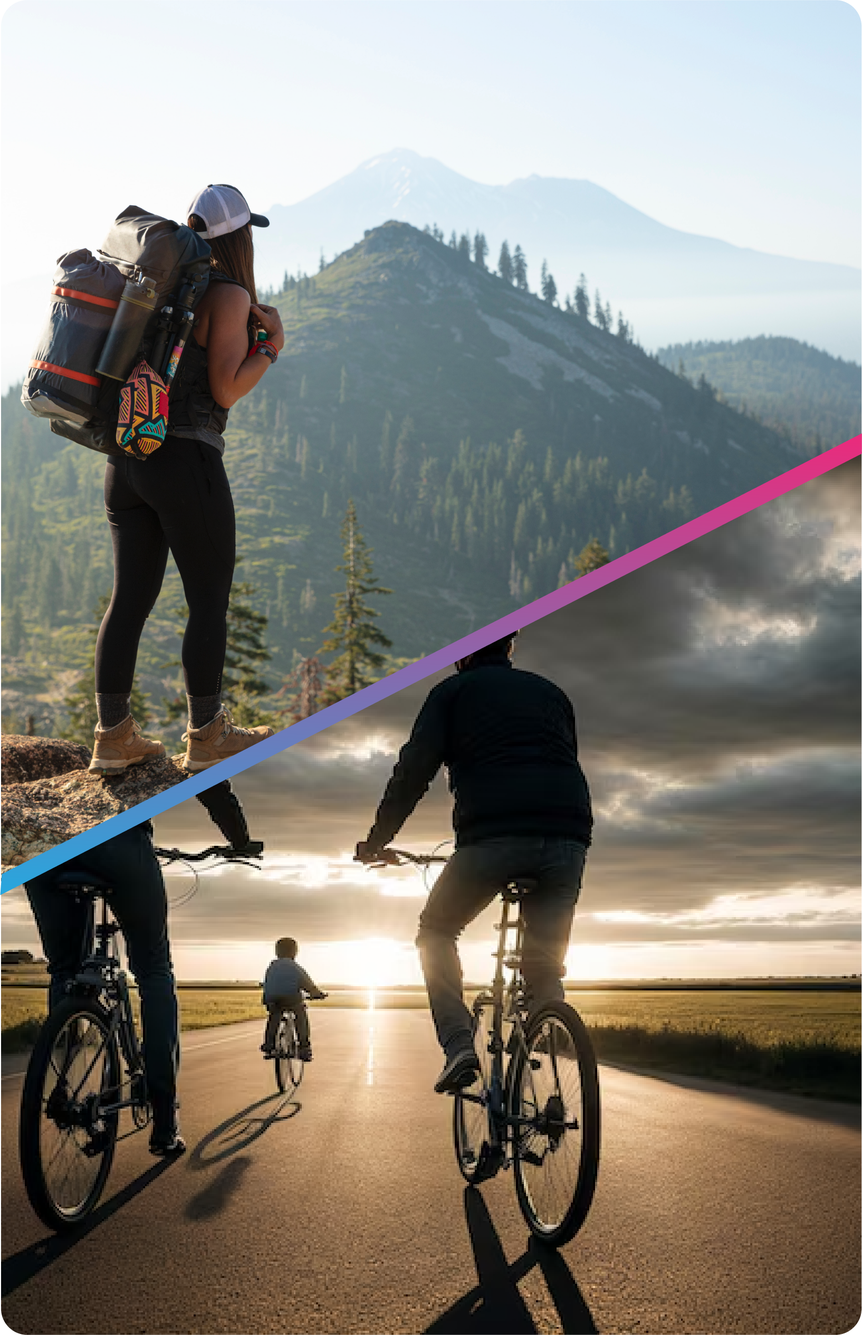
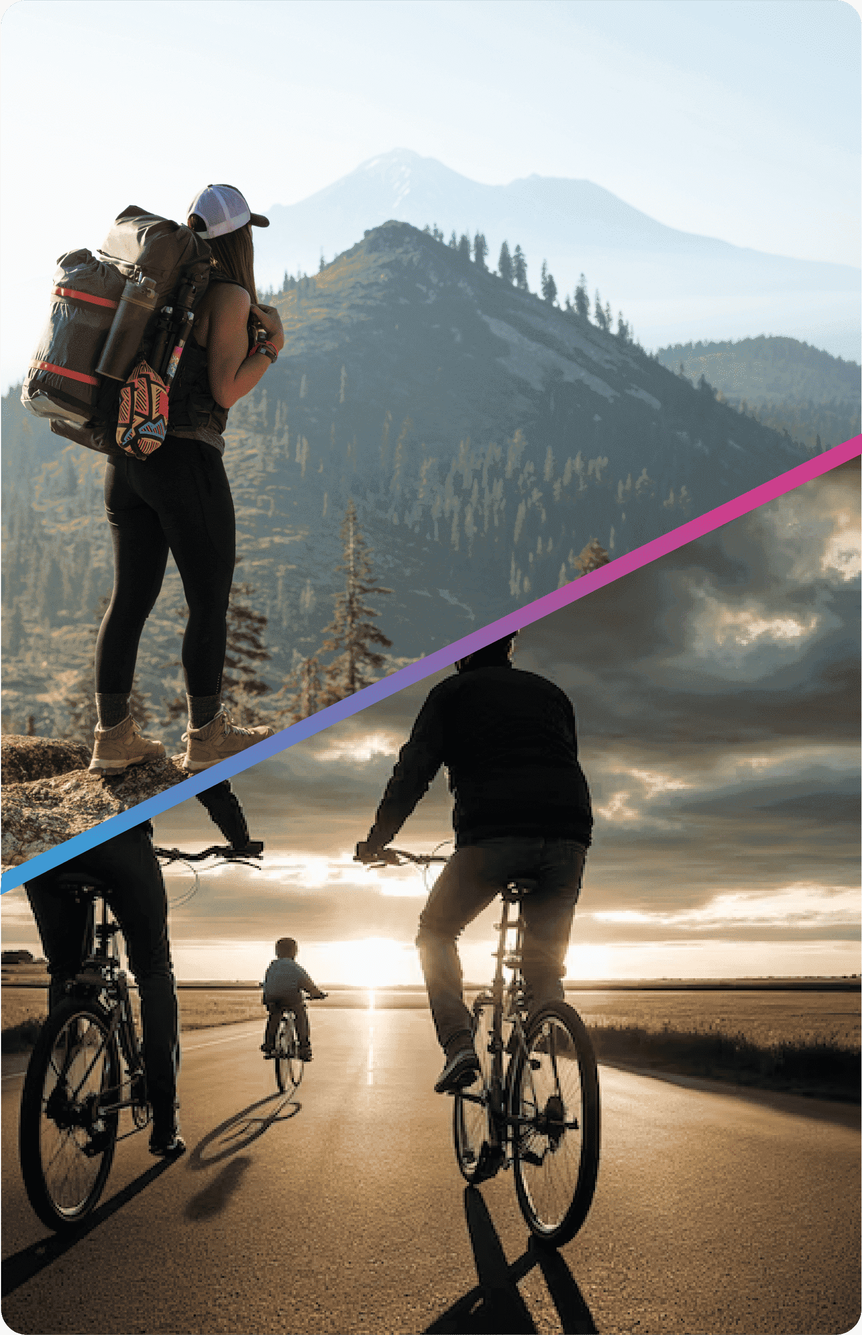
need some update

diff --git a/src/components/AddClubModal.jsx b/src/components/AddClubModal.jsx
@@ -1,11 +1,11 @@
 import React, { useState, useEffect } from 'react';
 import { useClub } from '../context/ClubsProvider';
-import { Modal, Input, Button, Upload } from 'antd';
+import { Modal, Input, Button, Upload, Calendar } from 'antd';
 import { MdOutlineFileUpload } from 'react-icons/md';
 import TextArea from 'antd/es/input/TextArea';
 
 export const AddClubModal = ({ isOpen, onClose, isEditing }) => {
-  const { addClub, handleClubForm, clubFormEdit,editClub, setClubFormEdit } = useClub();
+  const { addClub, handleClubForm, clubFormEdit, editClub, setClubFormEdit } = useClub();
   const [fileList, setFileList] = useState([]);
 
   useEffect(() => {
@@ -15,9 +15,8 @@ export const AddClubModal = ({ isOpen, onClose, isEditing }) => {
   }, [clubFormEdit, isEditing]);
 
   const handleSubmit = async () => {
- 
     if (isEditing) {
-      editClub(clubFormEdit.ID)
+      editClub(clubFormEdit.ID);
     } else {
       await addClub();
     }
@@ -30,9 +29,9 @@ export const AddClubModal = ({ isOpen, onClose, isEditing }) => {
     onClose();
   };
 
-  const handleImageChange = ({file }) => {
-    if (file?.status !== "removed") {
-      setClubFormEdit((prev)=>({...prev, Image:file}))
+  const handleImageChange = ({ file }) => {
+    if (file?.status !== 'removed') {
+      setClubFormEdit((prev) => ({ ...prev, Image: file }));
     }
   };
 
@@ -42,22 +41,22 @@ export const AddClubModal = ({ isOpen, onClose, isEditing }) => {
       open={isOpen}
       onCancel={handleCancel}
       footer={null}
-      closable={false}
+      width={600}
     >
       <h2
         style={{
-          fontSize: "14",
-          display: "flex",
-          justifyContent: "center",
-          borderBottom: "solid 2px #e3eeff",
-          paddingBottom: "10px",
-          marginBottom: "10px"
+          fontSize: 21, 
+          display: 'flex',
+          justifyContent: 'center',
+          borderBottom: 'solid 2px #e3eeff',
+          paddingBottom: 10,
+          marginBottom: 10,
         }}
       >
-        Клуб {isEditing ? "засах" : "нэмэх"}
+        Клуб {isEditing ? 'засах' : 'нэмэх'}
       </h2>
-      <div className='modal-inputs'>
-      <label>Клубын нэр</label>
+      <div className="club-modal-inputs">
+        <label>Клубын нэр</label>
         <Input
           name="Name"
           variant="filled"
@@ -68,9 +67,63 @@ export const AddClubModal = ({ isOpen, onClose, isEditing }) => {
           required
         />
       </div>
-      <div className='modal-inputs'>
-        <label>Тайлбар</label>
+      <div className='club-image'>
+      <div style={{width:'50%'}}>
+      <label style={{ fontWeight: 500, fontSize: '15px' }}>Клубын зургууд</label>
+        <div className="training-file-box">
+        
+          <Upload
+            accept=".png, .jpeg, .jpg"
+            onChange={handleImageChange}
+            beforeUpload={() => false}
+            maxCount={1}
+            fileList={clubFormEdit.Image  ? [clubFormEdit.Image] : []}
+          >
+            <Button icon={<MdOutlineFileUpload />}>
+              {isEditing ? 'Зураг солих' : 'Зураг хавсаргах'}
+            </Button>
+          </Upload>
+        </div>
+      </div>
+     <div style={{width:'50%'}}>
+        <label style={{ fontWeight: 500, fontSize: '15px' }}>Клубын бусад зургууд</label>
+        <div className="training-file-box">
+        
+          <Upload
+            accept=".png, .jpeg, .jpg"
+            onChange={handleImageChange}
+            beforeUpload={() => false}
+            maxCount={1}
+            fileList={clubFormEdit.Image ? [clubFormEdit.Image] : []}
+          >
+            <Button icon={<MdOutlineFileUpload />}>
+              {isEditing ? 'Зураг солих' : 'Зураг хавсаргах'}
+            </Button>
+          </Upload>
+        </div>
+      </div>
+    </div>
+    <div className='club-schedule-input'>
+    <div>
+    <label style={{ fontWeight: 500, fontSize: '15px' }}>Хуваарь</label>
+      <div className="club-schedule">
+        <div style={{ margin: '0 auto' }}>
+          <Calendar
+            fullscreen={false}
+            mode="month"
+            className="border rounded-md"
+          />
+          </div>
+         </div>
+        </div>
+      <div>
+        <label style={{fontWeight:'500' , fontSize:'15'}}>Клубын дэлгэрэнгүй</label>
+      <div className="club-modal-inputs">
         <TextArea
+          style={{
+            width: '270px',
+            padding: 10,
+          }}
           name="Descr"
           variant="filled"
           onChange={handleClubForm}
@@ -79,22 +132,20 @@ export const AddClubModal = ({ isOpen, onClose, isEditing }) => {
           placeholder="Клубын тайлбараа оруулна уу"
           required
         />
+        </div>
+       </div>
       </div>
-      <div className='modal-inputs'>
-        <label>Утасны дугаар</label>
-
-        <Input
-          name="Contact"
-          variant="filled"
-          onChange={handleClubForm}
-          value={clubFormEdit.Contact}
-          size="large"
-          placeholder="Холбогдох утасны дугаараа оруулна уу"
-          required
-        />
+      <div className='club-admin'>
+      <div className='club-modal-inputs'>
+        <label htmlFor="">Клубын админ</label>
+          <Input
+            name='Admin'
+            variant='filled'
+            size='large'
+            placeholder='Админы нэр '
+          />
       </div>
-      <div>
-        <div className="training-file-box">
+      <div className="training-file-box">
           <Upload
             accept=".png, .jpeg, .jpg"
             onChange={handleImageChange}
@@ -102,26 +153,64 @@ export const AddClubModal = ({ isOpen, onClose, isEditing }) => {
             maxCount={1}
             fileList={clubFormEdit.Image ? [clubFormEdit.Image] : []}
           >
-            {isEditing ? (
-              <Button icon={<MdOutlineFileUpload />}>Зураг солих</Button>
-            ) : (
-              <Button icon={<MdOutlineFileUpload />}>Зураг хавсаргах</Button>
-            )}
+            <Button icon={<MdOutlineFileUpload />}>
+              {isEditing ? 'Админы зураг солих' : 'Админы зураг хавсаргах'}
+            </Button>
           </Upload>
         </div>
+        <div className="club-modal-inputs">
+          <label>Утасны дугаар</label>
+            <Input
+              name="Contact"
+              variant="filled"
+              onChange={handleClubForm}
+              value={clubFormEdit.Contact}
+              size="large"
+              placeholder="Холбогдох утасны дугаараа оруулна уу"
+              required
+            />
+        </div>
       </div>
+        <label style={{fontWeight:'500' , fontSize:'15'}}>Клубын холбоо барих мэдээлэл</label>
+        <div className='club-links'>
+          <Input
+            placeholder='Facebook'
+            variant='filled'
+            size='large'
+          />
+          <Input
+            placeholder='Twitter'
+            variant='filled'
+            size='large'
+          />
+          <Input
+            placeholder='Instagram'
+            variant='filled'
+            size='large'
+          />
+          <Input
+            placeholder='Discord'
+            variant='filled'
+            size='large'
+          />
+        </div>
       <div className="add-footer">
-        <Button size="large" 
-                onClick={handleCancel}
-                style={{ fontWeight: 700, marginLeft: 10 }}
-                >Хаах
+        <Button
+          disabled ={true}
+          size="large"
+          onClick={handleCancel}
+          style={{ fontWeight: 700, marginLeft: 10 }}
+        >
+          Хаах
         </Button>
-        <Button type="primary" 
-                style={{ fontWeight: 700, marginLeft: 10 }}
-                size="large" 
-                onClick={handleSubmit}>
-                
-          { isEditing ? "Өөрчлөлт хадгалах" : "Нэмэх"}
+        
+        <Button
+          type="primary"
+          style={{ fontWeight: 700, marginLeft: 10 }}
+          size="large"
+          onClick={handleSubmit}
+        >
+          {isEditing ? 'Өөрчлөлт хадгалах' : 'Нэмэх'}
         </Button>
       </div>
     </Modal>

diff --git a/src/css/club.css b/src/css/club.css
@@ -247,18 +247,47 @@ object-fit: contain;
   color: white;
 }
 
-.modal-inputs{
+.club-modal-inputs{
   font-weight: 500;
   font-size: 15;
   margin-bottom: 8px;
 }
 .training-file-box{
-  margin-bottom: 40px;
+  margin-bottom: 10px;
+}
+.club-image{
+  display: flex;
+  width: 100%;
+  height: 200px;
+  gap: 10px;
+  /* border-radius: 50%; */
+}
+.club-schedule-input{
+  display: flex;
+  width: 100%;
+  justify-content: space-between;
+  gap: 20px;
 }
 .club-modal-content{
   text-overflow: clip;
   width: 1000px;
   height: 650px;
+}
+.ant-modal-close-x{
+  color: white;
+  font-size:20px;
+  font-weight: bolder;
+  background-color: #ff0000;
+  border-radius: 20px;
+  height: 32px;
+}
+.club-links{
+  padding: 10px;
+  display: flex;
+  display: flex;
+  gap: 10px;
+  margin-top: 10px;
+
 }
 
 /* Responsive Styles */

diff --git a/src/components/ClubsModal.jsx b/src/components/ClubsModal.jsx
@@ -26,6 +26,7 @@ export const ClubsModal = ({ isOpen, onRequestClose, club, isEditing, setIsEditi
       footer={null}
       className='club-modal-content'
       width={1000}
+       
     >
       <form onSubmit={handleSubmit}>
         <div className="modal-body">
@@ -118,7 +119,7 @@ export const ClubsModal = ({ isOpen, onRequestClose, club, isEditing, setIsEditi
                     background: 'none',
                     padding: '40px 10px',
                   }}
-                  onClick={() => window.open('https://instagram.com/YourTwitterHandle', '_blank')}
+                  onClick={() => window.open('https://www.instagram.com/ultimateerp2022/', '_blank')}
                 >
                   <img 
                     src={insta} 

diff --git a/src/pages/clubs/Clubs.jsx b/src/pages/clubs/Clubs.jsx
@@ -74,6 +74,7 @@ const Clubs = () => {
   const [isEditing, setIsEditing] = useState(false);
   const { clubs, deleteClub, setClubFormEdit } = useClub();
 
+  const {user} = useAuth()
   const handleCardOpen = (club) => {
     setIsClubsModalOpen(true);
     setSelectedClub(club);
@@ -120,7 +121,7 @@ setIsEditing(false)
               setIsClubsModalOpen={setIsAddClubModalOpen}
             />
           ))}
-          <AddClubCard onClick={handleAddClubClick} />
+          {checkRole(user?.Role)?<AddClubCard onClick={handleAddClubClick} />:""}
         </div>
       </main>
       <ClubsModal
